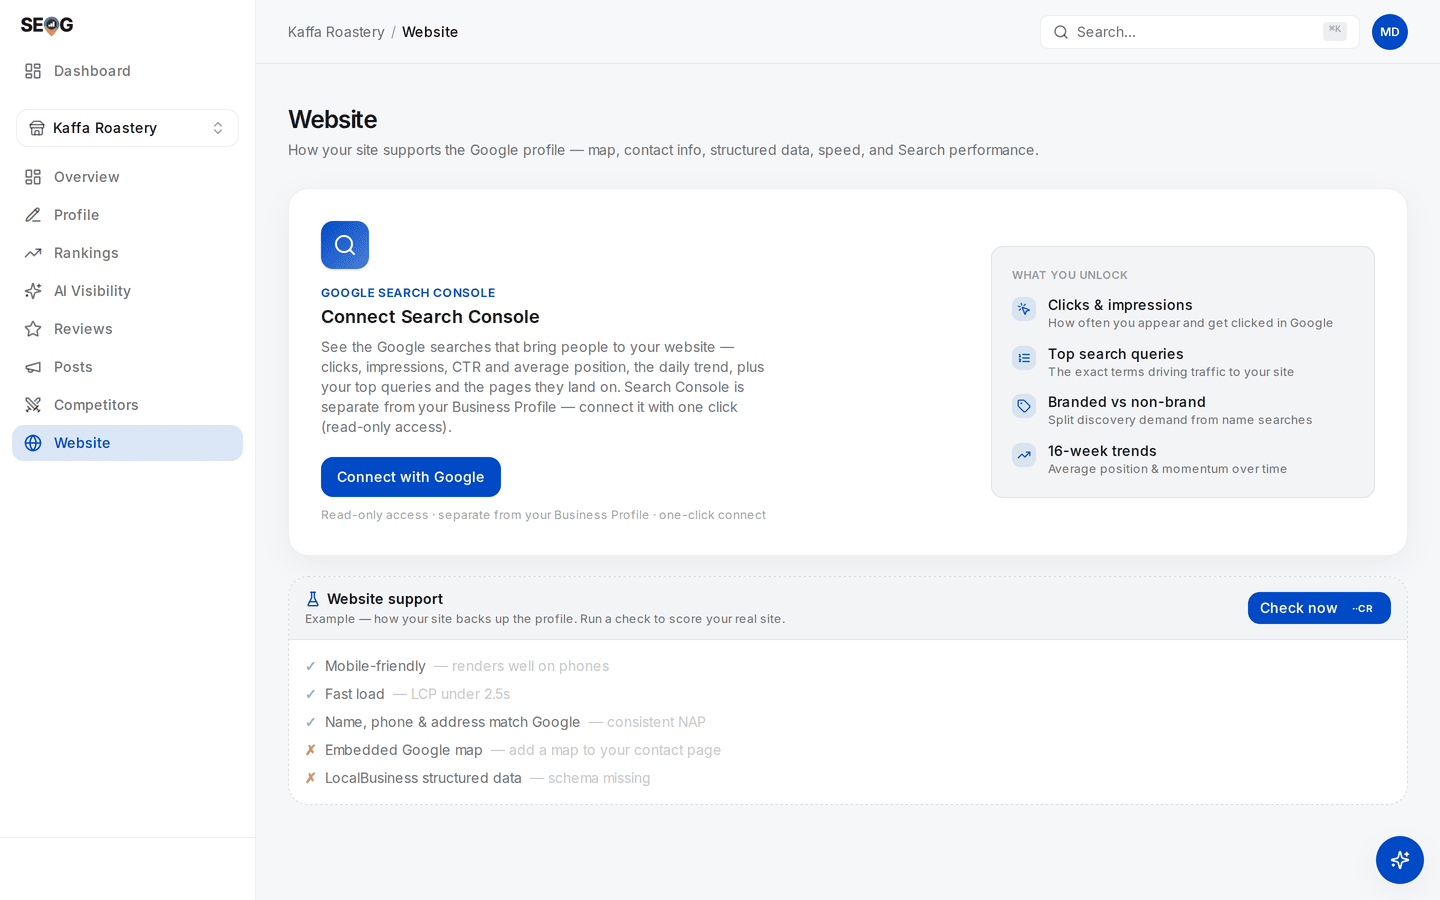
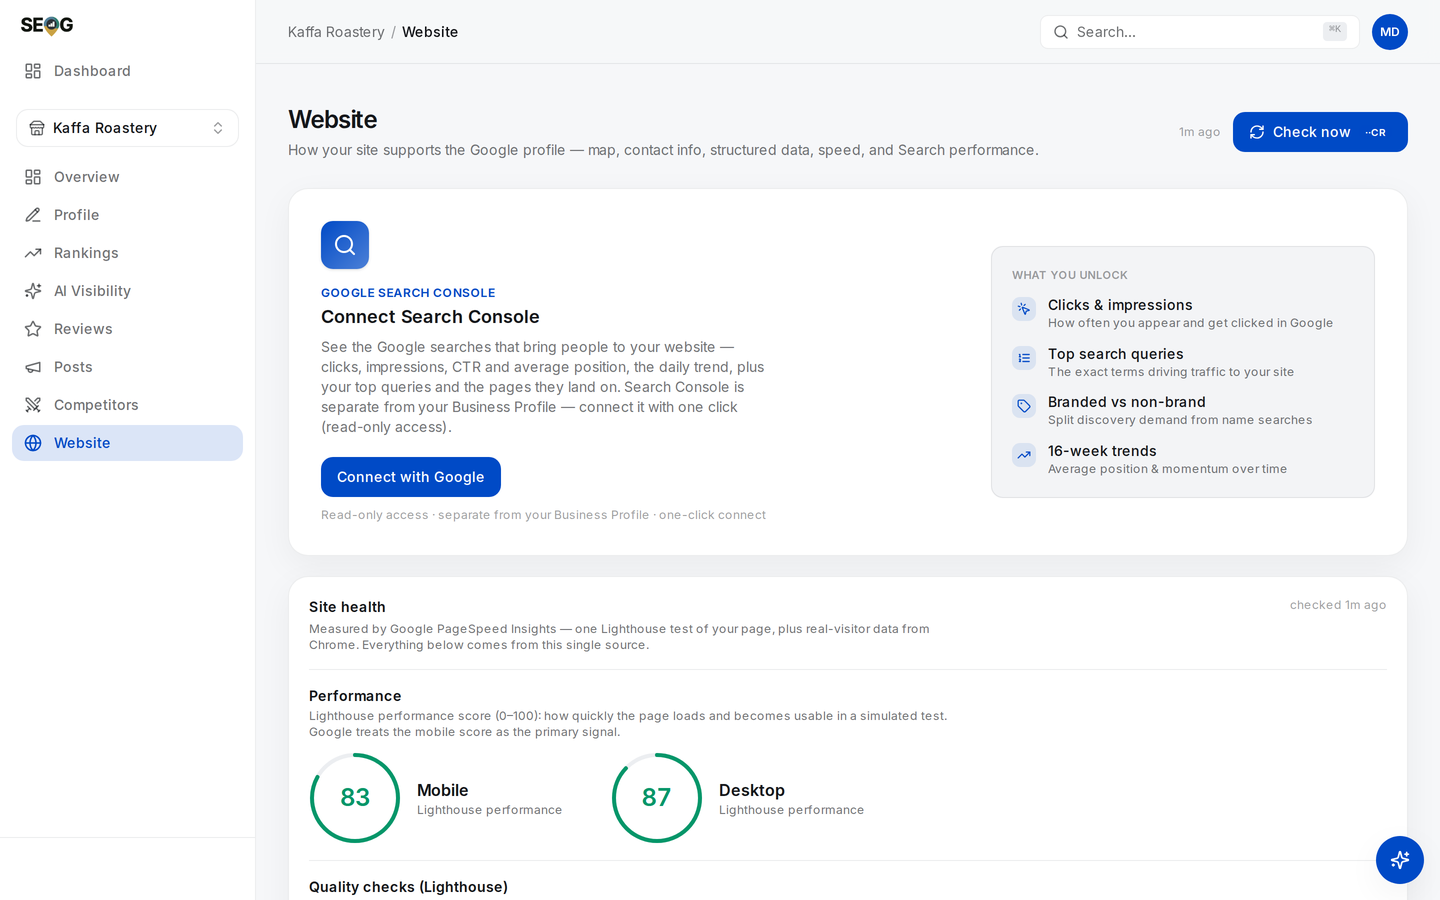
docs: add screen illustrations to lab exercises
- Add screenshots for AI visibility, sources panel, agent readiness features
- Update image references to renamed variants with example/full suffixes
- Include explanatory captions for each panel showing real use cases

diff --git a/docs/03-advanced/ai-visibility/the-presence-matrix.md b/docs/03-advanced/ai-visibility/the-presence-matrix.md
@@ -27,6 +27,10 @@ flowchart TD
 
 **Then cells, by reading the answers.** Every rate here is a count of judgements about text, made by string matching and a classifier that are fallible in ways you only see by reading.
 
+![An expanded matrix row: a verdict reading "Google's AI names you in its answer — source #1", the raw answer text quoting a latitude and longitude, and a numbered list of the sources Gemini cited](../../../static/img/screens/ai-probe-record.png)
+
+*The cell opened up — and this is the only place on the screen where the evidence lives. Three things to notice. The verdict is a **judgement about text**, and the text is right there to check it against. The answer opens by restating a **latitude and longitude**, because the anchor was passed as coordinates, not as a city name — a change to that string is a change to the experiment. And the two engines that were never connected say so plainly rather than scoring zero: **"not checked yet"** with a Check button beside it, not an absence you could mistake for a finding.*
+
 Two warnings specific to this instrument, both of them the chapter's own thesis arriving on one screen.
 
 A cell shows the **latest** check's verdict while the **Presence** tile shows a **rate over the window**, so they will disagree — a business at 3/5 reads "Not mentioned" whenever the most recent run missed. Tile for the rate, cell for the last observation, never one as the other.
@@ -37,7 +41,7 @@ Run five uniform passes and Presence sits on 120 observations while the band bel
 
 Before any of it has been run, the page gives you the shape of the instrument and none of its readings.
 
-![The whole AI Visibility page on a business with no live checks: Presence, Recommendations and Authority tiles, an AI mention rate band below them, a sample See if AI recommends you card, an empty Sources cited by AI card, and Authority and AI readiness breakdowns at the foot](../../../static/img/screens/ai-visibility-full.png)
+![The whole AI Visibility page on a business with no live checks: Presence, Recommendations and Authority tiles, an AI mention rate band below them, a sample See if AI recommends you card, an empty Sources cited by AI card, and Authority and AI readiness breakdowns at the foot](../../../static/img/screens/ai-visibility-full-example.png)
 
 *The method's cards in page order, cold. Read the pills, not the numbers: **Presence** and **Recommendations** carry an **Example** pill and so does the **AI mention rate** band — those three figures are the interface's own placeholders. **Authority** does not, because it is a real score computed from stored data (here, reviews alone). Under them, **See if AI recommends you** is a fixture whose rows are engines rather than this business's keywords. **Sources cited by AI** is empty because a source list only exists after a paid check, and **How AI recommends you** has judged nothing. Neither score at the foot is a measurement of AI answers *in this state*: the page's own footnote calls the readiness figure an estimate from profile signals, and every Authority row that depends on live answers reads "no data yet".*
 

diff --git a/static/img/screens/README.md b/static/img/screens/README.md
@@ -67,8 +67,12 @@ A healthy profile shows the destination. A broken one shows the work. Most "what
 | `geo-grid.png` | **Real 3×3 grid scan.** "Limited visibility — top 3 in 0% of the area": found at 9 of 9 points, averaging #4.7, on a real Helsinki map with rank-coloured pins. An earlier scan of the SAME nine points hours before read #2.4 and 100% top-3 — do not describe this image from memory, read it |
 | `reviews.png`, `reviews-full.png` | Reviews list, public view (recent sample only) |
 | `competitors.png` | Competitors page |
-| `ai-visibility.png`, `ai-visibility-full.png` | AI visibility page |
-| `website.png` | Website analysis page |
+| `ai-visibility.png`, `ai-visibility-full.png` | AI visibility **after one real live check** (2026-07-28): Presence 100% *"Mentioned in 1 of 1 recent live answers"*, Gemini 1/1, matrix row *Mentioned #1*, and a populated source list. Every figure is one observation — caption the denominator, never the percentage alone |
+| `ai-visibility-example.png`, `ai-visibility-full-example.png` | The same page **cold**, before any check: the headline tiles carry **Example** pills and the source list is empty. Kept deliberately — several chapters teach reading the pill, and that lesson needs the pre-check screen |
+| `ai-sources-panel.png` | **Crop** of `ai-visibility-full.png` — *Sources cited by AI*: the domains behind one live answer, own site tagged **You**, the rest **Web** |
+| `website.png`, `website-full.png` | Website page **after a real audit** (2026-07-28): Lighthouse 83 mobile / 87 desktop on kaffaroastery.fi, the fix list with ready-to-paste snippets, and the AI-agent-readiness card |
+| `website-example.png` | The same page **before** the audit — the *Website support* card showing its labelled Example rows and the **Check now** button |
+| `agent-readiness-panel.png` | **Crop** of `website-full.png` — the six Agentic Browsing checks, three passed and three not applicable, over a 100/100 figure. The illustration for "a fraction is not a verdict" |
 | `posts.png` | Posts page, not owner-connected |
 | `profile.png`, `profile-full.png` | Profile page, public view |
 | `reports.png` | The Reports panel over the overview with one **Ready** row — timestamp, state badge, download, delete. Re-captured 2026-07-28 *after* generating a real report, so the row states the labs describe are visible; the earlier version showed only the empty state |

diff --git a/docs/03-advanced/changing-the-ai-answer/labs-running-the-experiment.md b/docs/03-advanced/changing-the-ai-answer/labs-running-the-experiment.md
@@ -23,6 +23,10 @@ These three form one experiment, run in order over three to six weeks. Doing 21.
 > You need: at least one round of live checks already run ([Does the AI recommend this business?](../ai-visibility/index.md)), and your tracked keyword set from Lab 8.2.
 
 1. Open **Sources cited by AI**. Write down every **Directory** and **Social** row with its citation count, then every **Web** row — usually listicles and local press, and the rows people ignore.
+
+![The Sources cited by AI card: seven ranked domains, the business's own site tagged You at the top and six others tagged Web, each reading "Cited in 1 answer · Gemini"](../../../static/img/screens/ai-sources-panel.png)
+
+*What step 1 is transcribing, from one live answer. Every row here is tagged **Web** except the business's own site — no directories at all, which for this business is the finding: the lever is editorial, not listings hygiene, and a citation package would be money spent on the wrong corpus. Note the count on each row (**Cited in 1 answer**); it is the denominator you will be comparing against after Lab 21.3, and with one check behind it, it is a starting point rather than a measurement.*
 2. Pick **one** lever from the ladder above. One. Write its grade beside it in your own words.
 3. Split your tracked keywords into a **test set** (the ones this lever plausibly affects) and a **control set** (at least three you will not touch). Write both lists down. This is the freeze.
 4. Write the prediction: which axis moves — *named*, *cited*, *stance* or *position* — by roughly how much, on which engines. Check it against the granularity table. If your predicted effect is smaller than the noise floor for the runs you can afford, the experiment cannot answer its own question. Redesign it, or say so now.

diff --git a/docs/99-appendix/the-local-prompt-corpus.md b/docs/99-appendix/the-local-prompt-corpus.md
@@ -261,6 +261,10 @@ The series tag is the field people skip and then regret. Without it, a C-12 disp
 1. In **Rankings**, add each filled row with **Track**. The AI check runs on active tracked keywords, so a row that is not tracked cannot be probed.
 2. For the second-area cell, add the same phrase again with a different **Search from** value. It saves as its own row rather than being rejected as a duplicate, because a tracked keyword's identity is the phrase *plus* its location *plus* its language, not the phrase alone. *(Code-verified 2026-07-27.)*
 3. In **AI Visibility**, scroll to **Where AI mentions you**, select exactly your six rows, and read the count on the bar: `N keywords × M engines = K checks`.
+
+![The Where AI mentions you card: a checkbox column, one keyword row with a Gemini result of "Mentioned #1", dashes under ChatGPT and Claude, and a "Check 1 selected" button above the line "1 keyword × 1 engine = 1 checks"](../../static/img/screens/ai-visibility.png)
+
+*The selection bar step 3 is reading, with one row selected instead of six. The arithmetic under the button is the batch you are about to buy — it multiplies the ticked rows by the **connected** engines only, which is why the two unconnected columns cost nothing and also measure nothing. Tick your six rows and that line becomes your run size; it is the number to check before every one of the five passes, because an accidentally-unticked row silently changes the denominator of the pass.*
 4. Press **Check N selected** and let the batch counter finish. Repeat four more times with the identical selection, recording the date of each pass.
 5. Read the rates from the tiles and the **Sources cited by AI** table. Both are free — they read what the paid checks stored.
 

diff --git a/docs/02-core-practice/citations-and-nap/ai-answer-citations-and-verdicts.md b/docs/02-core-practice/citations-and-nap/ai-answer-citations-and-verdicts.md
@@ -42,6 +42,10 @@ flowchart LR
 
 **Where this lives in the app.** On the **AI Visibility** page (`/b/{businessId}/ai-visibility`) those are the **Sources cited by AI** and **Listings consistency** cards, with a strip above them showing the overlap: each platform AI cited, how many answers cited it, and your listing's status there.
 
+![The Sources cited by AI card listing seven ranked domains — the business's own site tagged You, then six others tagged Web — each showing "Cited in 1 answer · Gemini"](../../../static/img/screens/ai-sources-panel.png)
+
+*A real answer taken apart. Seven domains fed one Gemini answer about a Helsinki coffee roaster: the business's own site at the top (tagged **You**), and below it a travel blog, a coffee-trade publication and four more — every one tagged **Web**, not a directory. Read that list as the work order. Nothing on it is a citation site you can go and correct, so for this business the lever is editorial: being the thing those pages write about. A different business, in a different category, gets a list full of directories and a completely different afternoon.*
+
 The **Authority** card scores the same join as *Presence on the sources AI cites* — "Listed on N of M directories/platforms AI cites for your keywords" — weighting it 25 out of 100, with listings consistency a further 15. Those weights are a design choice derived from correlation evidence, not a Google fact; [Changing the answer](../../03-advanced/changing-the-ai-answer/index.md) sets out what the evidence is and how strong it is not.
 
 ### Why the citation package fails

diff --git a/docs/02-core-practice/making-the-site-readable-by-agents/index.md b/docs/02-core-practice/making-the-site-readable-by-agents/index.md
@@ -67,7 +67,11 @@ You know this failure: it is why you have tapped the wrong link on a phone. The 
 
 ## What Lighthouse actually scores
 
-The category is called **Agentic Browsing** and it currently carries six checks. In SEOG they appear on the **Website** page as an **AI agent readiness** card, directly below the **Site health** card. *(Category contents verified 2026-07 against Google's Lighthouse agentic-browsing documentation; Lighthouse 13.3 added it to the default config, 13.4 is current.)*
+The category is called **Agentic Browsing** and it currently carries six checks. In SEOG they appear on the **Website** page as an **AI agent readiness** card, directly below the **Site health** card.
+
+![The AI agent readiness card with six rows: accessibility tree, three WebMCP checks, Cumulative Layout Shift and llms.txt — three ticked, three showing a dash and the note "optional today"](../../../static/img/screens/agent-readiness-panel.png)
+
+*The six checks on a real site, and the table below is this card in prose. The three **WebMCP** rows carry a dash rather than a cross: they were not asked, because the standard is new enough that Google treats it as optional. Which rows applied to your site is the reading — not the figure in the corner.* *(Category contents verified 2026-07 against Google's Lighthouse agentic-browsing documentation; Lighthouse 13.3 added it to the default config, 13.4 is current.)*
 
 | Check | What it asks | Who else benefits |
 | --- | --- | --- |

diff --git a/docs/02-core-practice/the-website-half/schema-scores-and-search-console.md b/docs/02-core-practice/the-website-half/schema-scores-and-search-console.md
@@ -22,6 +22,10 @@ Sites with good schema do tend to appear in AI answers, but those sites also ten
 
 **Completeness is graded, not binary.** Eight fields are worth having — `name`, `address`, `telephone`, `geo`, `openingHoursSpecification`, `url`, `image`, `sameAs` — and four of them is genuinely half the job. The usual mistake is pasting a snippet with name and address only, then treating the row as done.
 
+![The Website screen after a check: a Check now button in the header, a Search Console connect card, and a Site health card with Lighthouse performance dials reading 83 mobile and 87 desktop](../../../static/img/screens/website.png)
+
+*A real run on a real site, and the first thing to read is the sourcing line: **"Measured by Google PageSpeed Insights — one Lighthouse test of your page, plus real-visitor data from Chrome. Everything below comes from this single source."** Two dials, mobile and desktop, from one test — which is the honest framing of a number that varies between runs. **Search Console is a separate connection** from the Business Profile, and until it is made, the demand half of this chapter is simply unavailable.*
+
 ## Two honesty rules for any site score
 
 **Unverifiable is not failing.** If a site renders its content with JavaScript, a plain fetch sees an empty shell, and checks needing visible text — schema detection, the NAP comparison, the keyword check — cannot be answered.

diff --git a/docs/02-core-practice/making-the-site-readable-by-agents/reading-the-score-and-llms-txt.md b/docs/02-core-practice/making-the-site-readable-by-agents/reading-the-score-and-llms-txt.md
@@ -18,6 +18,10 @@ What the Lighthouse report shows instead is **a fraction** — how many of the a
 
 Tools that render the fraction as a percentage — SEOG's card among them, which shows the figure out of 100 when the API supplies one — make the illusion worse, because 100 looks like a verdict and 2/2 at least shows its denominator. *(Inference: Google documents the fraction and the not-applicable status, but does not spell out the arithmetic; the excluded-from-the-denominator behaviour is what the reports show.)*
 
+![The AI agent readiness card reading 100/100, with six rows: three ticked — accessibility tree, Cumulative Layout Shift, llms.txt — and three dashed WebMCP rows marked "optional today"](../../../static/img/screens/agent-readiness-panel.png)
+
+*The illusion, on a real site. The card says **100/100**, and three of its six rows were never asked: the WebMCP checks carry a dash and the words *optional today*, so they are outside the denominator. A reader who takes the number at face value concludes this site answered six questions well. It answered three, and the honest reading of the other three is "we do not know yet".*
+
 That is why the discipline in this chapter is to read the *checks*, never the number.
 
 > **A dash is not a pass.** A dash is an unasked question, and the only person who can decide whether it matters is you.

diff --git a/docs/01-foundations/how-ai-answers-a-local-question/what-the-numbers-mean.md b/docs/01-foundations/how-ai-answers-a-local-question/what-the-numbers-mean.md
@@ -38,7 +38,7 @@ Two things on the panel you are about to open share the word, and they are not t
 
 Keep them apart, and treat any dashboard reporting a chat-engine "presence rate" as owing you an answer to which of the two it is reporting.
 
-![The AI Visibility page on a business where no check has been run: Presence 64%, Recommendations 52% and AI mention rate 67%, each tagged with a small Example pill, with ChatGPT and Claude marked Not connected](../../../static/img/screens/ai-visibility.png)
+![The AI Visibility page on a business where no check has been run: Presence 64%, Recommendations 52% and AI mention rate 67%, each tagged with a small Example pill, with ChatGPT and Claude marked Not connected](../../../static/img/screens/ai-visibility-example.png)
 
 *The panel cold, before any check. Presence, Recommendations and AI mention rate each carry an **Example** pill — those percentages are the interface's own placeholders, not this business. Two of the three engine tiles read **Not connected**. Authority is the only number here without a pill, because it is computed rather than illustrated — a weighted blend of five signals, from which any factor not yet measurable drops out with the remaining weights renormalised. On a cold profile that leaves the review factor carrying the whole score, so the number is real but narrow.*
 

diff --git a/docs/03-advanced/ai-visibility/labs-uniform-matrix.md b/docs/03-advanced/ai-visibility/labs-uniform-matrix.md
@@ -33,7 +33,7 @@ The method becomes real in three labs, run in order: design the probe set, run e
 >
 > You need: Lab 20.1. Note which engines show **Not connected** — those produce clearly-labelled sample rows, and samples never count toward any rate.
 
-![The top of the AI Visibility page with nothing tracked: three engine tiles of which two read Not connected, above a card headed "See if AI recommends you" listing Google AI Overview, ChatGPT and Claude with mention marks](../../../static/img/screens/ai-visibility.png)
+![The top of the AI Visibility page with nothing tracked: three engine tiles of which two read Not connected, above a card headed "See if AI recommends you" listing Google AI Overview, ChatGPT and Claude with mention marks](../../../static/img/screens/ai-visibility-example.png)
 
 *What the page shows when no keyword is tracked yet. The three engine tiles sit in the **AI mention rate** band; two of them read **Not connected** — unmeasured columns, not zeros — and the fractions beside them are labelled *(example)*. Below the band, the card reads **See if AI recommends you**: its rows are engines rather than your probes, and it says **Example** on its own subtitle. It is a fixture — the real **Where AI mentions you** matrix from step 1 replaces it the moment one keyword is tracked.*
 

diff --git a/docs/03-advanced/ai-visibility/index.md b/docs/03-advanced/ai-visibility/index.md
@@ -23,6 +23,10 @@ In map-pack work the unit is obvious: one keyword, one coordinate, one moment, o
 
 The unit is a **probe**: one question, put to one engine, from one geographic anchor, at one moment. Every probe produces a record with these fields, and a record missing any of them is not evidence.
 
+![The AI Visibility screen after one live check: Presence 100% "Mentioned in 1 of 1 recent live answers", engine tiles with Gemini at 1/1 and ChatGPT and Claude marked Not connected, and a matrix row reading "Mentioned #1"](../../../static/img/screens/ai-visibility.png)
+
+*One probe, rendered. This is a single live check — one keyword, one engine, one moment — and every headline number on the screen is therefore built on **1 of 1**. That is exactly the trap the rest of this chapter is about: **Presence 100%** and **AI mention rate 100%** are true statements about one observation, and the denominator is printed next to each of them for a reason. The row in **Where AI mentions you** carries the two axes separately — *Mentioned* and its position — and the button above it states the arithmetic before you spend anything: 1 keyword × 1 engine = 1 check.*
+
 | Field | Why it is in the record |
 | --- | --- |
 | Question text | Exact string, unbranded. A paraphrase is a different probe. |

diff --git a/docs/04-operating/what-the-work-costs/where-the-margin-is.md b/docs/04-operating/what-the-work-costs/where-the-margin-is.md
@@ -66,6 +66,10 @@ flowchart LR
 > You need: [Lab 17.3](../../02-core-practice/did-it-work/index.md), so you have assembled a report once and know the steps.
 
 1. Start a timer. Everything here reads stored data — press no refresh button. Note elapsed minutes at the end of every step.
+
+![The portfolio dashboard: four rollup tiles — Businesses, Avg profile score 91%, Avg rating 4.7, Total reviews 572 — above a business card carrying a mini rank grid and an "All quiet" line](../../../static/img/screens/dashboard.png)
+
+*Minute zero. Everything on this screen is stored, so the whole lab starts free — and the card is deliberately thin: one score, one grid, one line of status. That is the machine's entire contribution to the cycle you are about to time. The forty minutes come after it, in steps 4 and 5, where somebody has to write sentences.*
 2. **Overview**: read the profile score, the action plan and the review momentum card.
 3. **Rankings**: read current positions and the latest grid snapshot, then write the one-sentence movement verdict you would put in a report.
 4. **Reviews**: read every review since the last cycle and draft — in a text file, not in the app — the replies you would sign. This block will be the largest, and that is the finding.
